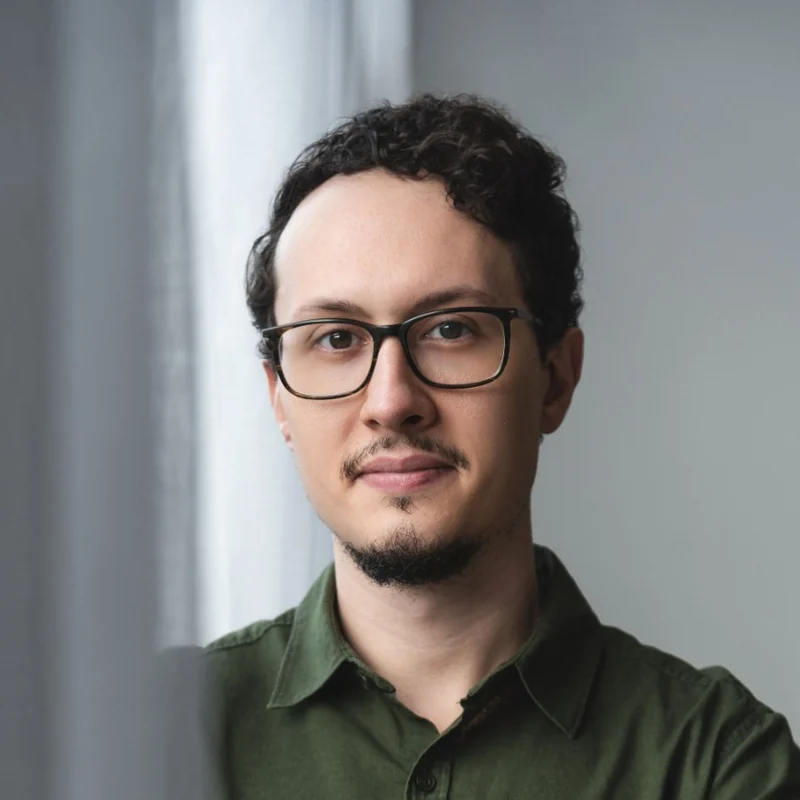
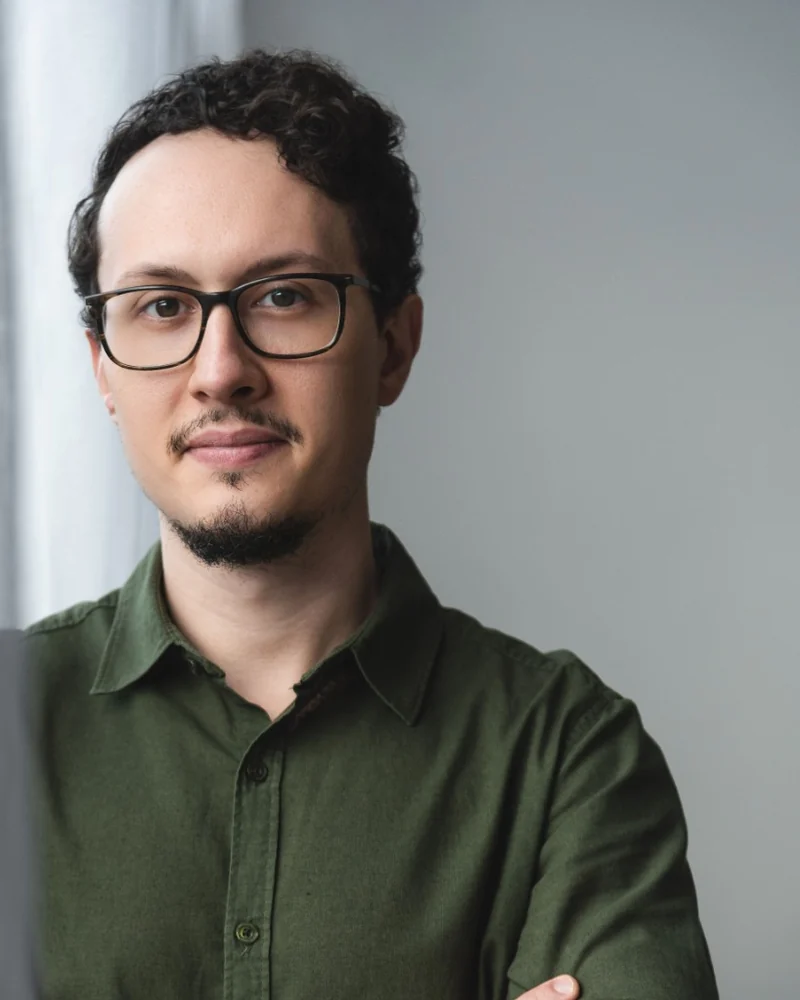
Hero sem moldura circular, CTA do contato antes do aviso e listas com categorias (#3)
- Hero: a foto de perfil sai do recorte circular (formato de avatar do
  Instagram) e passa a aparecer como retrato solto, 4:5 com cantos arredondados.
- Contato: o CTA 'Me chame no WhatsApp...' sobe para logo abaixo do título e o
  aviso do CVV vem em seguida, com peso visual menor (borda e fundo mais suaves).
  Sai a primeira frase redundante ('O primeiro passo é uma mensagem').
- Sobre: 'Psicoterapia' e 'Formação Acadêmica' viram categorias em negrito, sem
  marcador, com os itens correspondentes aninhados abaixo.
- og-image.jpg refeita para acompanhar o novo enquadramento do retrato.

diff --git a/inertia/components/AboutSection.tsx b/inertia/components/AboutSection.tsx
@@ -1,17 +1,25 @@
 import { AnimatedSection } from "./AnimatedSection";
 import retratoSobre from "@/assets/gabriel-sobre.webp";
 
-// Atuação e formações na ordem pedida pelo Gabriel. "Formação Acadêmica"
-// aparece como item de destaque no meio da lista (e não como título de outro
-// bloco), então a lista é uma só, sem subdivisões.
+// Atuação e formações em dois grupos: "Psicoterapia" e "Formação Acadêmica" são
+// as categorias (sem marcador, em destaque) e os itens abaixo delas são o que
+// compõe cada uma.
 const atuacoesEFormacoes = [
-  "Psicoterapia",
-  "Terapia Cognitivo-Comportamental",
-  "Tomada de decisão via paradigma da PBE",
-  "Formação Acadêmica",
-  "Cursos de formação em PBE",
-  "1ª turma de Especialização no InPBE",
-  "Formação em psicoterapia para Autismo nível 1 de suporte",
+  {
+    categoria: "Psicoterapia",
+    itens: [
+      "Terapia Cognitivo-Comportamental",
+      "Tomada de decisão via paradigma da PBE",
+    ],
+  },
+  {
+    categoria: "Formação Acadêmica",
+    itens: [
+      "Cursos de formação em PBE",
+      "1ª turma de Especialização no InPBE",
+      "Formação em psicoterapia para Autismo nível 1 de suporte",
+    ],
+  },
 ];
 
 const demandasAtendidas = [
@@ -71,25 +79,33 @@ export function AboutSection() {
                     </p>
                   </div>
 
-                  {/* A lista de atuação tem itens longos e é mais alta que a de
-                      demandas; por isso ela ganha mais largura no desktop (menos
-                      quebras de linha) e o espaçamento entre itens é enxuto,
-                      para as duas colunas terminarem na mesma altura. */}
+                  {/* "Psicoterapia" e "Formação Acadêmica" são categorias, não
+                      itens de lista: entram em negrito, sem marcador, e o que
+                      vem abaixo é o que compõe cada uma. */}
                   <div className="grid gap-x-10 gap-y-8 mt-10 sm:grid-cols-2 lg:grid-cols-[1.5fr_1fr]">
                     <div>
                       <h3 className="text-xl font-semibold text-primary mb-4">
                         Atuação e Formações
                       </h3>
-                      <ul className="space-y-1.5 text-[0.95rem] leading-snug text-muted-foreground">
-                        {atuacoesEFormacoes.map((item) => (
-                          <li key={item} className="flex gap-2">
-                            <span aria-hidden className="text-primary/70">
-                              •
-                            </span>
-                            <span>{item}</span>
-                          </li>
+                      <div className="space-y-5 text-[0.95rem] leading-snug text-muted-foreground">
+                        {atuacoesEFormacoes.map((grupo) => (
+                          <div key={grupo.categoria} className="space-y-2">
+                            <p className="font-semibold text-card-foreground">
+                              {grupo.categoria}
+                            </p>
+                            <ul className="space-y-1.5 pl-4">
+                              {grupo.itens.map((item) => (
+                                <li key={item} className="flex gap-2">
+                                  <span aria-hidden className="text-primary/70">
+                                    •
+                                  </span>
+                                  <span>{item}</span>
+                                </li>
+                              ))}
+                            </ul>
+                          </div>
                         ))}
-                      </ul>
+                      </div>
                     </div>
 
                     <div>

diff --git a/inertia/components/ContactSection.tsx b/inertia/components/ContactSection.tsx
@@ -20,14 +20,18 @@ export function ContactSection() {
               Entre em Contato
             </h2>
 
-            {/* Aviso vem antes das frases de acolhimento e em destaque: quem
-                chega em crise precisa da informação sobre emergência na
-                primeira leitura, não no rodapé. */}
+            {/* CTA logo abaixo do título: a visita chega querendo falar, então
+                a ação vem primeiro. O aviso do CVV continua em destaque, mas
+                depois — sem virar a primeira coisa que a pessoa lê. */}
+            <p className="text-xl text-muted-foreground max-w-2xl mx-auto mb-8">
+              Me chame no WhatsApp e a gente combina o melhor horário para você.
+            </p>
+
             <div
               role="note"
-              className="mx-auto mb-8 max-w-2xl rounded-xl border border-primary/40 bg-primary/10 px-6 py-5"
+              className="mx-auto mb-8 max-w-2xl rounded-xl border border-primary/25 bg-primary/5 px-5 py-4"
             >
-              <p className="text-base sm:text-lg font-medium italic text-foreground leading-relaxed">
+              <p className="text-sm sm:text-base font-medium italic text-muted-foreground leading-relaxed">
                 AVISO: Não é oferecido atendimento ou aconselhamento de
                 emergência para pessoas em situação de crise suicida. Se estiver
                 se sentindo nesse estado, ligue agora para 188 (CVV – Centro de
@@ -43,11 +47,6 @@ export function ContactSection() {
                 ;
               </p>
             </div>
-
-            <p className="text-xl text-muted-foreground max-w-2xl mx-auto">
-              O primeiro passo é uma mensagem. Me chame no WhatsApp e a gente
-              combina o melhor horário para você.
-            </p>
           </div>
         </AnimatedSection>
 

diff --git a/inertia/components/HeroSection.tsx b/inertia/components/HeroSection.tsx
@@ -93,19 +93,21 @@ export function HeroSection() {
             </div>
           </div>
 
-          {/* Photo: no mobile vem antes do texto, menor, para o rosto aparecer na primeira tela */}
+          {/* Foto solta (sem recorte circular): mantém o enquadramento do
+              retrato inteiro. No mobile vem antes do texto, menor, para o
+              rosto aparecer na primeira tela. */}
           <div className="flex justify-center lg:justify-end order-1 lg:order-2">
-            <div className="relative">
+            <div className="relative w-52 sm:w-64 lg:w-full lg:max-w-sm">
               <div
                 aria-hidden
-                className="absolute -inset-3 rounded-full bg-primary/20 blur-2xl"
+                className="absolute -inset-4 rounded-[2rem] bg-primary/25 blur-3xl"
               />
               <img
                 src={psychologistPhoto}
                 alt="Gabriel, psicólogo clínico — Terapia Cognitivo-Comportamental online para ansiedade, depressão e autismo nível 1 de suporte"
                 width={800}
-                height={800}
-                className="relative w-44 h-44 sm:w-64 sm:h-64 lg:w-96 lg:h-96 object-cover rounded-full shadow-card ring-4 ring-primary/60 ring-offset-4 ring-offset-background"
+                height={1000}
+                className="relative w-full aspect-[4/5] object-cover object-[50%_22%] rounded-2xl shadow-card ring-1 ring-primary/40"
                 loading="eager"
                 fetchPriority="high"
               />
